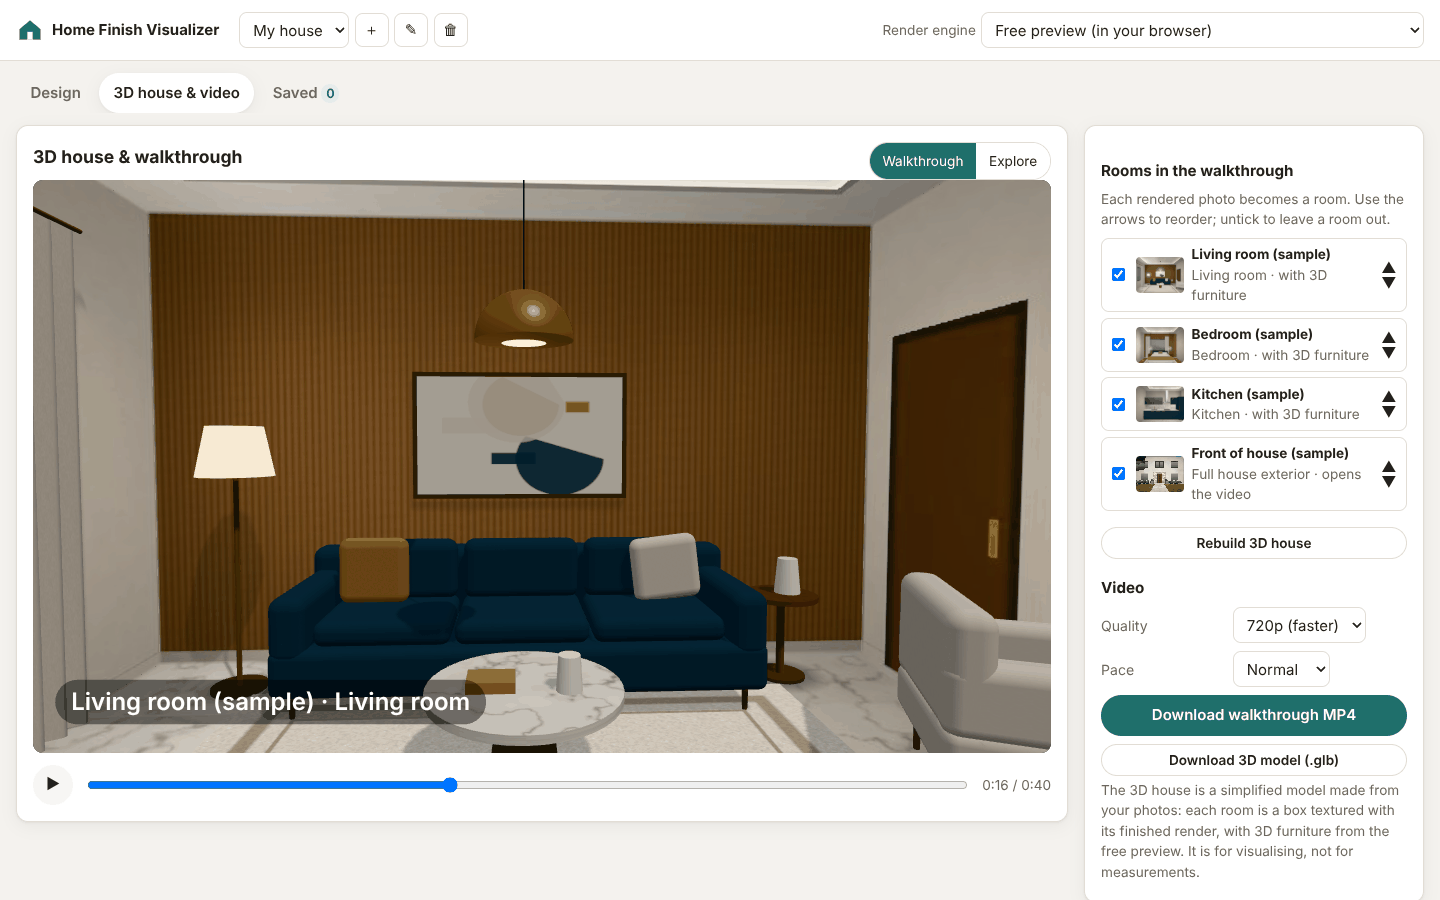
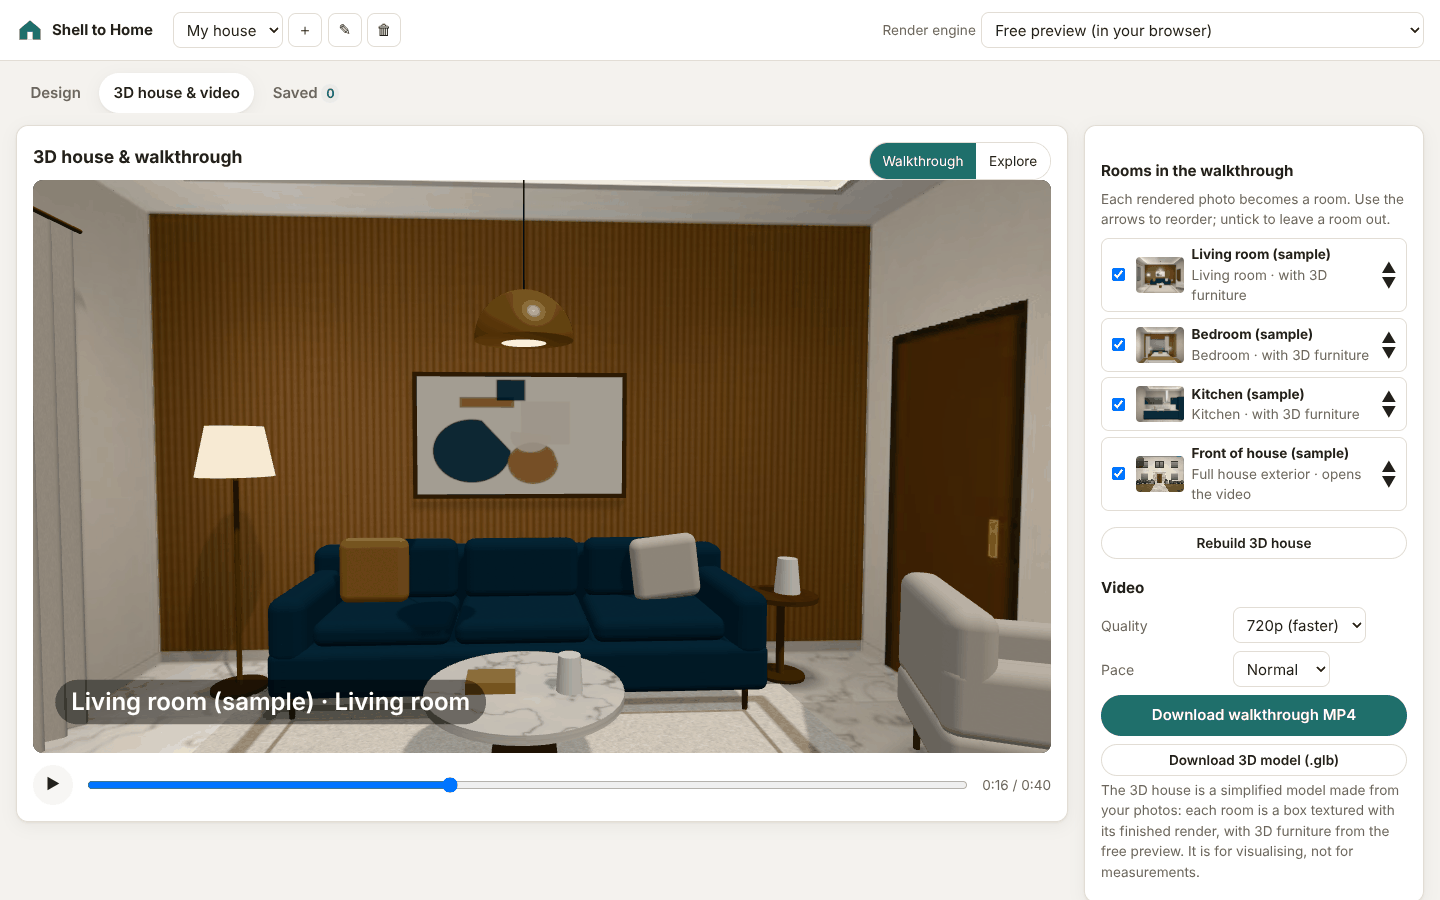
Rename the app to Shell to Home
- New name and tagline ("See your bare-shell house finished – before you
  build") in the page title, header, SEO and social tags, structured
  data, web app manifest, server output, package name and all docs.
- README explains the name; launch kit posts use #ShellToHome and add
  an optional step for renaming the repository.
- Regenerated the social preview / Open Graph images and the UI
  screenshots with the new name.
- Shared files now carry a small "Made with Shell to Home" credit (the
  walkthrough video's end card and the before/after download).
- The browser storage name is unchanged so saved projects keep loading.

Claude-Session: https://claude.ai/code/session_01NVHbrV21cdHVEmxnss6wok

diff --git a/public/index.html b/public/index.html
@@ -3,18 +3,20 @@
 <head>
   <meta charset="utf-8">
   <meta name="viewport" content="width=device-width, initial-scale=1">
-  <title>Home Finish Visualizer – See your unfinished house finished, free in your browser</title>
-  <meta name="description" content="Upload a photo of an unfinished room or house and see it finished: flooring, paint, ceiling, lighting and furniture in your style. Before/after slider, 3D walkthrough and MP4 video. Free, private, no sign-up.">
-  <meta name="keywords" content="home renovation visualizer, unfinished house, construction visualization, interior design app, before and after, room makeover, AI interior design, 3D walkthrough, house exterior design, Indian modern interior">
+  <title>Shell to Home – See your bare-shell house finished, free in your browser</title>
+  <meta name="description" content="Shell to Home: upload a photo of a bare-shell or unfinished room or house and see it finished: flooring, paint, ceiling, lighting and furniture in your style. Before/after slider, 3D walkthrough and MP4 video. Free, private, no sign-up.">
+  <meta name="keywords" content="shell to home, bare shell house, home renovation visualizer, unfinished house, construction visualization, interior design app, before and after, room makeover, AI interior design, 3D walkthrough, house exterior design, Indian modern interior">
   <meta name="author" content="roshanshaji786">
   <meta name="robots" content="index, follow, max-image-preview:large">
   <meta name="theme-color" content="#1f6f6b">
+  <meta name="application-name" content="Shell to Home">
+  <meta name="apple-mobile-web-app-title" content="Shell to Home">
   <link rel="canonical" href="https://roshanshaji786.github.io/house_baithul_hamd/">
 
   <!-- Social sharing previews (Facebook, LinkedIn, WhatsApp, X/Twitter, Slack...) -->
   <meta property="og:type" content="website">
-  <meta property="og:site_name" content="Home Finish Visualizer">
-  <meta property="og:title" content="See your unfinished house finished – before you build">
+  <meta property="og:site_name" content="Shell to Home">
+  <meta property="og:title" content="Shell to Home – see your bare-shell house finished before you build">
   <meta property="og:description" content="Turn photos of bare walls and concrete into a finished, styled home. Pick a style or add reference images, compare before/after, then walk through it in 3D. Free and open source.">
   <meta property="og:url" content="https://roshanshaji786.github.io/house_baithul_hamd/">
   <meta property="og:image" content="https://roshanshaji786.github.io/house_baithul_hamd/assets/og-image.jpg">
@@ -22,7 +24,7 @@
   <meta property="og:image:height" content="630">
   <meta property="og:image:alt" content="An unfinished room with bare brick and concrete, and the same room finished with flooring, paint, lighting and furniture">
   <meta name="twitter:card" content="summary_large_image">
-  <meta name="twitter:title" content="See your unfinished house finished – before you build">
+  <meta name="twitter:title" content="Shell to Home – see your bare-shell house finished before you build">
   <meta name="twitter:description" content="Photos of bare walls in, finished rooms out. Before/after slider, 3D walkthrough and MP4 video. Free and open source.">
   <meta name="twitter:image" content="https://roshanshaji786.github.io/house_baithul_hamd/assets/og-image.jpg">
 
@@ -37,8 +39,8 @@
   {
     "@context": "https://schema.org",
     "@type": "WebApplication",
-    "name": "Home Finish Visualizer",
-    "alternateName": "Baithul Hamd Home Finish Visualizer",
+    "name": "Shell to Home",
+    "alternateName": "ShellToHome",
     "url": "https://roshanshaji786.github.io/house_baithul_hamd/",
     "image": "https://roshanshaji786.github.io/house_baithul_hamd/assets/og-image.jpg",
     "description": "Turn photos of an unfinished house into finished, styled renders with a before/after slider, single-element edits, a 3D walkthrough and MP4 video export.",
@@ -85,12 +87,12 @@
 </head>
 <body>
   <a class="skip-link" href="#main">Skip to content</a>
-  <noscript><p style="padding:1rem">Home Finish Visualizer needs JavaScript and WebGL. Please enable JavaScript to turn photos of your unfinished house into finished, styled rooms.</p></noscript>
+  <noscript><p style="padding:1rem">Shell to Home needs JavaScript and WebGL. Please enable JavaScript to turn photos of your unfinished house into finished, styled rooms.</p></noscript>
 
   <header class="topbar">
     <div class="brand">
       <svg viewBox="0 0 32 32" aria-hidden="true"><path d="M4 15 16 5l12 10v12H4z" fill="currentColor"/><rect x="13" y="18" width="6" height="9" fill="var(--surface)"/></svg>
-      <span>Home Finish Visualizer</span>
+      <span>Shell to Home</span>
     </div>
     <div class="project-bar">
       <label class="sr-only" for="project-select">Project</label>
@@ -283,8 +285,8 @@
 
   <!-- Plain-HTML introduction: helps first-time visitors and search engines. -->
   <section class="about" aria-labelledby="about-title">
-    <h2 id="about-title">See your unfinished house finished – before you build</h2>
-    <p>Home Finish Visualizer turns a phone photo of an unfinished room or house (bare brick, exposed concrete, empty floors, open ceilings) into a finished, modern home: flooring, wall paint, ceiling, lighting, fixtures and furniture. It is made for homeowners and small contractors who want to try ideas before spending money.</p>
+    <h2 id="about-title">See your bare-shell house finished – before you build</h2>
+    <p>Shell to Home turns a phone photo of a bare-shell room or house (bare brick, exposed concrete, empty floors, open ceilings) into a finished, modern home: flooring, wall paint, ceiling, lighting, fixtures and furniture. It is made for homeowners and small contractors who want to try ideas before spending money.</p>
     <div class="about-grid">
       <div>
         <h3>Your style, your references</h3>

diff --git a/server/index.js b/server/index.js
@@ -1,5 +1,5 @@
 /**
- * Home Finish Visualizer - web server.
+ * Shell to Home - web server.
  *
  * Serves the single-page app from /public and exposes a small JSON API:
  *   GET  /api/config        which optional paid services are configured
@@ -153,7 +153,7 @@ app.listen(config.port, config.host, () => {
   const caps = publicCapabilities();
   const on = (flag) => (flag ? 'on' : 'off (no key)');
   const shown = ['127.0.0.1', '::1', 'localhost'].includes(config.host) ? 'localhost' : config.host;
-  console.log(`\nHome Finish Visualizer running at http://${shown}:${config.port}\n`);
+  console.log(`\nShell to Home running at http://${shown}:${config.port}\n`);
   console.log(`  Free preview renderer : on`);
   console.log(`  OpenAI renders        : ${on(caps.providers.openai.available)}`);
   console.log(`  Gemini renders        : ${on(caps.providers.gemini.available)}`);

diff --git a/public/js/ui/compare.js b/public/js/ui/compare.js
@@ -74,7 +74,7 @@ export async function comparisonImage(beforeBlob, afterBlob, caption) {
   ctx.fillText('After', wa + gap + 16, height + 36);
   ctx.font = '16px system-ui, sans-serif';
   ctx.fillStyle = '#666';
-  const note = `${caption} · Visual preview only, not a construction plan`;
+  const note = `${caption} · Made with Shell to Home · visual preview, not a construction plan`;
   ctx.fillText(note, canvas.width - ctx.measureText(note).width - 16, height + 36);
   return new Promise((resolve) => canvas.toBlob(resolve, 'image/jpeg', 0.92));
 }

diff --git a/public/js/three/house.js b/public/js/three/house.js
@@ -315,6 +315,9 @@ export function drawOverlay(ctx, width, height, overlay, title) {
     ctx.font = `${Math.round(22 * s)}px system-ui, sans-serif`;
     ctx.fillStyle = '#ddd';
     ctx.fillText('Visual preview only - not a construction or engineering plan', width / 2, height / 2 + 34 * s);
+    ctx.font = `600 ${Math.round(20 * s)}px system-ui, sans-serif`;
+    ctx.fillStyle = '#9fd3cd';
+    ctx.fillText('Made with Shell to Home', width / 2, height / 2 + 72 * s);
     ctx.textAlign = 'start';
   }
   if (overlay.fade > 0) {

diff --git a/public/js/lib/db.js b/public/js/lib/db.js
@@ -3,6 +3,7 @@
  * and saved renders as Blobs) are stored in the browser, so nothing is
  * uploaded anywhere unless an AI engine is used.
  */
+// Internal name from the app's first version; kept so saved projects keep loading.
 const DB_NAME = 'home-finish-visualizer';
 const VERSION = 1;
 let dbPromise = null;

diff --git a/public/css/styles.css b/public/css/styles.css
@@ -1,4 +1,4 @@
-/* Home Finish Visualizer - styles
+/* Shell to Home - styles
    Mobile-first; two columns from 980px. Light and dark themes via tokens. */
 
 :root {

diff --git a/docs/LAUNCH.md b/docs/LAUNCH.md
@@ -1,6 +1,6 @@
 # Launch kit
 
-Everything needed to publish Home Finish Visualizer and help people find it: a go-live checklist, search and social settings, and ready-to-post copy for each platform. Edit the posts into your own voice. Real stories ("I'm building my house and…") travel much further than feature lists.
+Everything needed to publish **Shell to Home** and help people find it: a go-live checklist, search and social settings, and ready-to-post copy for each platform. Edit the posts into your own voice. Real stories ("I'm building my house and…") travel much further than feature lists.
 
 **Links used below**
 - Live demo: https://roshanshaji786.github.io/house_baithul_hamd/
@@ -14,13 +14,14 @@ Everything needed to publish Home Finish Visualizer and help people find it: a g
 2. **Turn on the live demo:** *Settings › Pages › Build and deployment › Source: **GitHub Actions***. Then open *Actions › Deploy live demo › Run workflow* (it also runs on every push to `main`). After a minute or two the demo is live at the URL above.
 3. **Fill in the "About" box** (gear icon next to *About* on the repo page):
    - **Description:**
-     > See your unfinished house finished. Turn photos of bare walls into styled rooms with a before/after slider, 5 styles, reference images, one-element edits and a 3D walkthrough with MP4 export. Free, private, runs in your browser.
+     > Shell to Home: see your bare-shell house finished. Turn photos of bare walls into styled rooms with a before/after slider, 5 styles, reference images, one-element edits and a 3D walkthrough with MP4 export. Free, private, runs in your browser.
    - **Website:** `https://roshanshaji786.github.io/house_baithul_hamd/`
    - **Topics** (GitHub search weighs these heavily):
-     `home-renovation` `interior-design` `house-design` `construction` `before-and-after` `room-planner` `virtual-staging` `ai-interior-design` `3d-walkthrough` `threejs` `webgl` `webcodecs` `image-editing` `openai` `gemini` `claude` `javascript` `nodejs` `open-source` `indian-interior-design`
+     `shell-to-home` `bare-shell` `home-renovation` `interior-design` `house-design` `construction` `before-and-after` `room-planner` `virtual-staging` `ai-interior-design` `3d-walkthrough` `threejs` `webgl` `webcodecs` `image-editing` `openai` `gemini` `claude` `javascript` `nodejs` `open-source` `indian-interior-design`
 4. **Social preview image:** *Settings › General › Social preview › Edit › Upload* `docs/images/social-preview.jpg`. This is the card shown when the repo link is shared.
 5. **Create a release:** *Releases › Draft a new release*, tag `v1.0.0`, title "v1.0.0 – See your unfinished house finished", paste the notes from `CHANGELOG.md`, and attach a walkthrough MP4 made in the app. Releases appear in followers' feeds.
 6. **Pin the repository** on your GitHub profile (*Customize your pins*).
+   - **Optional: rename the repository to `shell-to-home`** (*Settings › General › Repository name*) so the name matches everywhere. Do it **before** you share any links: GitHub redirects old repository links, but the live-demo address changes to `https://roshanshaji786.github.io/shell-to-home/`. Afterwards, replace `house_baithul_hamd` with `shell-to-home` in the README, `docs/`, `public/index.html`, `public/robots.txt`, `public/sitemap.xml`, `package.json` and `scripts/build-static.mjs`. The deploy workflow picks up the new name by itself.
 7. **Google Search Console:** add a *URL prefix* property for the demo URL. Verify it by downloading Google's HTML verification file into `public/` and pushing. Then submit `sitemap.xml` and request indexing for the homepage. Do the same in **Bing Webmaster Tools**.
 8. Check the share card with the [LinkedIn Post Inspector](https://www.linkedin.com/post-inspector/) and by pasting the link into a WhatsApp chat.
 
@@ -37,9 +38,9 @@ Lead with the **before/after GIF** (`docs/images/before-after-slider.gif`) or th
 
 ### X / Twitter thread
 
-> **1/** I'm building a house, and the hardest part is imagining it finished while standing in bare brick and concrete.
+> **1/** I'm building a house, and the hardest part is imagining it finished while standing in a bare shell of brick and concrete.
 >
-> So I built a free tool: upload a photo of an unfinished room → see it finished in your style. 👇
+> So I built Shell to Home, a free tool: upload a photo of an unfinished room → see it finished in your style. 👇
 > [before/after GIF]
 >
 > **2/** One photo, five styles: modern minimalist, Scandinavian, luxury, Indian modern, industrial loft.
@@ -58,15 +59,15 @@ Lead with the **before/after GIF** (`docs/images/before-after-slider.gif`) or th
 >
 > **7/** Built with three.js, WebCodecs and a lot of perspective maths. Optional photo-real renders with OpenAI/Gemini if you self-host. Feedback and ⭐ very welcome!
 >
-> #buildinpublic #opensource #interiordesign #homerenovation #threejs
+> #ShellToHome #buildinpublic #opensource #interiordesign #homerenovation #threejs
 
 ### LinkedIn
 
-> 🏠 **I built a free tool that shows your unfinished house… finished.**
+> 🏠 **I built Shell to Home, a free tool that shows your bare-shell house… finished.**
 >
 > Anyone who has built a home knows the problem: you stand in bare blockwork and have to pick floors, paint and lighting by imagination. Visualisers are expensive, and most "AI interior" apps want your photos on their servers.
 >
-> Home Finish Visualizer:
+> Shell to Home:
 > ✅ Turns a phone photo of an unfinished room (or the house exterior) into a finished, styled space
 > ✅ 5 styles, or your own reference images with roles (flooring, kitchen, palette…)
 > ✅ Before/after slider and one-element-at-a-time edits
@@ -76,11 +77,11 @@ Lead with the **before/after GIF** (`docs/images/before-after-slider.gif`) or th
 > Homeowners and small contractors: I'd love your feedback.
 > 👉 https://roshanshaji786.github.io/house_baithul_hamd/
 >
-> #construction #interiordesign #homebuilding #proptech #opensource #webdevelopment
+> #ShellToHome #construction #interiordesign #homebuilding #proptech #opensource
 
 ### Hacker News (Show HN)
 
-**Title:** `Show HN: See your unfinished house finished – in-browser renders and 3D walkthrough`
+**Title:** `Show HN: Shell to Home – see your unfinished house finished, in the browser`
 
 > I'm building a house and wanted to preview finishes on the actual rooms, from phone photos of bare walls. This is a free web app that fits a "room box" to a single photo (far wall + vanishing point), repaints floor/walls/ceiling with procedural materials multiplied by the photo's own smoothed lighting, places three.js furniture in metric space (avoiding detected doorways), and projects the result back onto a 3D box for a walkthrough ("tour into the picture"). The MP4 is encoded in the browser with WebCodecs + mp4-muxer.
 >
@@ -97,12 +98,12 @@ Read each subreddit's self-promotion rules first; some only allow it on certain 
 - **r/SideProject, r/webdev, r/javascript, r/threejs, r/opensource**: use the Show HN text, adjusted to each audience.
 - **r/HomeImprovement, r/HomeBuilding, r/InteriorDesign, r/IndianHomes**: lead with the problem and the before/after image, mention it's free and private, and ask for feedback rather than upvotes.
 
-**Title idea:** *I made a free tool that shows your unfinished room finished (works from a phone photo, nothing uploaded)*
+**Title idea:** *I made Shell to Home, a free tool that shows your bare-shell room finished (works from a phone photo, nothing uploaded)*
 
 ### Product Hunt
 
-- **Name:** Home Finish Visualizer
-- **Tagline (≤ 60 characters):** `See your unfinished house finished – free, in your browser`
+- **Name:** Shell to Home
+- **Tagline (≤ 60 characters):** `See your bare-shell house finished – free, in your browser`
 - **Description:** Upload a photo of bare walls and see the room finished in your style. Before/after slider, one-element edits, 3D walkthrough and MP4 video. No sign-up; photos never leave your device.
 - **Gallery:** social preview, before/after GIF, five-styles image, bedroom/kitchen/exterior pairs, walkthrough GIF.
 - **First comment:** the "why" story, what's free versus optional, and a question for hunters ("what style should we add next?").
@@ -116,11 +117,11 @@ Screen-record the app on a phone (9:16):
 4. Play the 3D walkthrough.
 5. End card: "Free – link in bio".
 
-**Caption:** *Can't picture your unfinished house? I built a free tool that shows it finished – in 5 styles, plus a 3D walkthrough 🏠✨ Link in bio. #homebuilding #interiordesign #beforeandafter #houseconstruction #homedecor*
+**Caption:** *Can't picture your bare-shell house finished? Shell to Home shows it – in 5 styles, plus a 3D walkthrough 🏠✨ Free, link in bio. #ShellToHome #homebuilding #interiordesign #beforeandafter #houseconstruction*
 
 ### WhatsApp / Facebook groups (house builders, contractors, family)
 
-> Building or renovating? This free tool shows your unfinished room finished, from just a phone photo. Try different floors, paint and lighting, then download a 3D walkthrough video. Nothing gets uploaded. https://roshanshaji786.github.io/house_baithul_hamd/
+> Building or renovating? Shell to Home is a free tool that shows your bare-shell room finished, from just a phone photo. Try different floors, paint and lighting, then download a 3D walkthrough video. Nothing gets uploaded. https://roshanshaji786.github.io/house_baithul_hamd/
 
 ## 4. Tips
 

diff --git a/README.md b/README.md
@@ -1,8 +1,8 @@
 <div align="center">
 
-# 🏠 Home Finish Visualizer
+# 🏠 Shell to Home
 
-### See your unfinished house finished, before you spend a rupee, dollar or dirham.
+### See your bare-shell house finished – before you spend a rupee, dollar or dirham.
 
 Turn a phone photo of bare brick, concrete and empty floors into a **finished, styled home**.<br>
 Compare **before and after**, change **one element at a time**, then **walk through it in 3D** and download the video.
@@ -29,7 +29,9 @@ Compare **before and after**, change **one element at a time**, then **walk thro
 
 Building a house takes years, and the hardest part is **imagining the finished home while you're standing in a shell of bare blockwork**. Which floor? What colour? Will a dark feature wall make the room feel small? Interior designers and 3D visualisers are expensive, and most "AI interior" apps need an account, upload your photos to a server, and ignore the room you actually have.
 
-**Home Finish Visualizer** works with *your* photos and *your* room's real shape. It runs free in your browser, and your photos never leave your device. The repository is named after *Baithul Hamd*, the house it was made for.
+**Shell to Home** takes you from that bare shell to a finished home on screen. It works with *your* photos and *your* room's real shape. It runs free in your browser, and your photos never leave your device. The repository is named after *Baithul Hamd*, the house it was made for.
+
+> **Why "Shell to Home"?** Builders call a house with walls and a roof but no finishes a *bare shell*. This app shows the journey from shell to home, before the first tile is laid.
 
 ## One photo, five styles
 
@@ -218,6 +220,6 @@ Built with [three.js](https://threejs.org), [mp4-muxer](https://github.com/Vanil
 
 <div align="center">
 
-**If this helped you picture your future home, please ⭐ star the repo. It helps others find it.**
+**If Shell to Home helped you picture your future home, please ⭐ star the repo and share your before/after with `#ShellToHome`.**
 
 </div>

diff --git a/CHANGELOG.md b/CHANGELOG.md
@@ -4,7 +4,7 @@ All notable changes to this project are listed here. Versions follow [Semantic V
 
 ## [1.0.0] - 2026-10-15
 
-First public release.
+First public release of **Shell to Home**.
 
 ### Added
 - Photo uploads with drag and drop, thumbnails, and checks for small, dark, blurry or unclear images (plus a HEIC tip).

diff --git a/CONTRIBUTING.md b/CONTRIBUTING.md
@@ -1,6 +1,6 @@
 # Contributing
 
-Thanks for helping make Home Finish Visualizer better! Bug reports, ideas, new styles, translations, docs and code are all welcome.
+Thanks for helping make Shell to Home better! Bug reports, ideas, new styles, translations, docs and code are all welcome.
 
 ## Ways to help
 

diff --git a/docs/ARCHITECTURE.md b/docs/ARCHITECTURE.md
@@ -1,6 +1,6 @@
 # Architecture
 
-How Home Finish Visualizer works under the hood. For using the app, see the [user guide](USER_GUIDE.md).
+How Shell to Home works under the hood. For using the app, see the [user guide](USER_GUIDE.md).
 
 - [Overview](#overview)
 - [Code map](#code-map)
